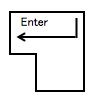
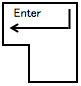
add IchigoJam font

Changed region(s): [[0.0247, 0.0233, 0.963, 0.9767]]

diff --git a/ja/LED.html b/ja/LED.html
@@ -1,16 +1,18 @@
 <!DOCTYPE html><html><head><meta charset="utf-8">
 <title>ひかりをあやつるLED（エルイーディー） - IchigoJam</title>
 <link rel="stylesheet" type="text/css" href="ichigojamlist.css">
+<link rel="stylesheet" type="text/css" href="ichigojamprint.css">
 <script src="ichigojamlist.js"></script>
 </head><body>
 
 <h1>ひかりをあやつるLED（エルイーディー）</h1>
 
 <section>
-<img src=key-enter.png height=70 align=right>
+<img src=key-enter.png height=60 align=right>
 IchigoJamのスイッチを入れて、LED1（エル、イー、ディー、いち）とキーボードからうちこんで、Enter（エンター）キーをおしてみよう。
 （Enterキーは、みぎのようなおおきなキー）
-<div id="list1"></div><script>make15("list1", "LED1")</script>
+<!--<div class="ichigojam">LED1</div>-->
+<div id="list2"></div><script>make15("list1", "LED1")</script>
 「OK（オーケー）」とでて、IchigoJamのLEDがひかったら、だいせいこう！
 </section>
 

diff --git a/ja/ichigojamprint.css b/ja/ichigojamprint.css
@@ -1,0 +1,36 @@
+body {
+	font-size: 90%;
+	font-family: sans-serif;
+	width: 524px;
+}
+@font-face {
+    font-family: "ichigojam";
+    src: url("IchigoJam-1.2.woff") format('woff'); /* CC BY IchigoJam / BALLOON a.k.a. Fu-sen. */
+}
+.ichigojam {
+	font-family: "ichigojam";
+	white-space: pre-wrap;
+	border: 1px solid;
+	width: 512px;
+	font-size: 16px;
+	line-height: 1.3em;
+	letter-spacing: 0px;
+	padding: 2px 4px;
+	margin: 4px 0px;
+	word-break: break-all;
+}
+h1 {
+	margin: 0;
+	padding: 0;
+	font-size: 150%;
+}
+section {
+	margin: 0.5em 0em;
+}
+#credit {
+	text-align: center;
+	font-size: 12px;
+}
+#credit a {
+	color: gray !important;
+}

diff --git a/en/ichigojamlist.css b/en/ichigojamlist.css
@@ -1,6 +1,7 @@
 body {
 	font-size: 90%;
 	font-family: sans-serif;
+	width: 524px;
 }
 h1 {
 	margin: 0;

diff --git a/ichigojamlist.css b/ichigojamlist.css
@@ -1,6 +1,7 @@
 body {
 	font-size: 90%;
 	font-family: sans-serif;
+	width: 524px;
 }
 h1 {
 	margin: 0;

diff --git a/ja/ichigojamlist.css b/ja/ichigojamlist.css
@@ -1,6 +1,7 @@
 body {
 	font-size: 90%;
 	font-family: sans-serif;
+	width: 524px;
 }
 h1 {
 	margin: 0;

diff --git a/rw/ichigojamlist.css b/rw/ichigojamlist.css
@@ -1,6 +1,7 @@
 body {
 	font-size: 90%;
 	font-family: sans-serif;
+	width: 524px;
 }
 h1 {
 	margin: 0;
